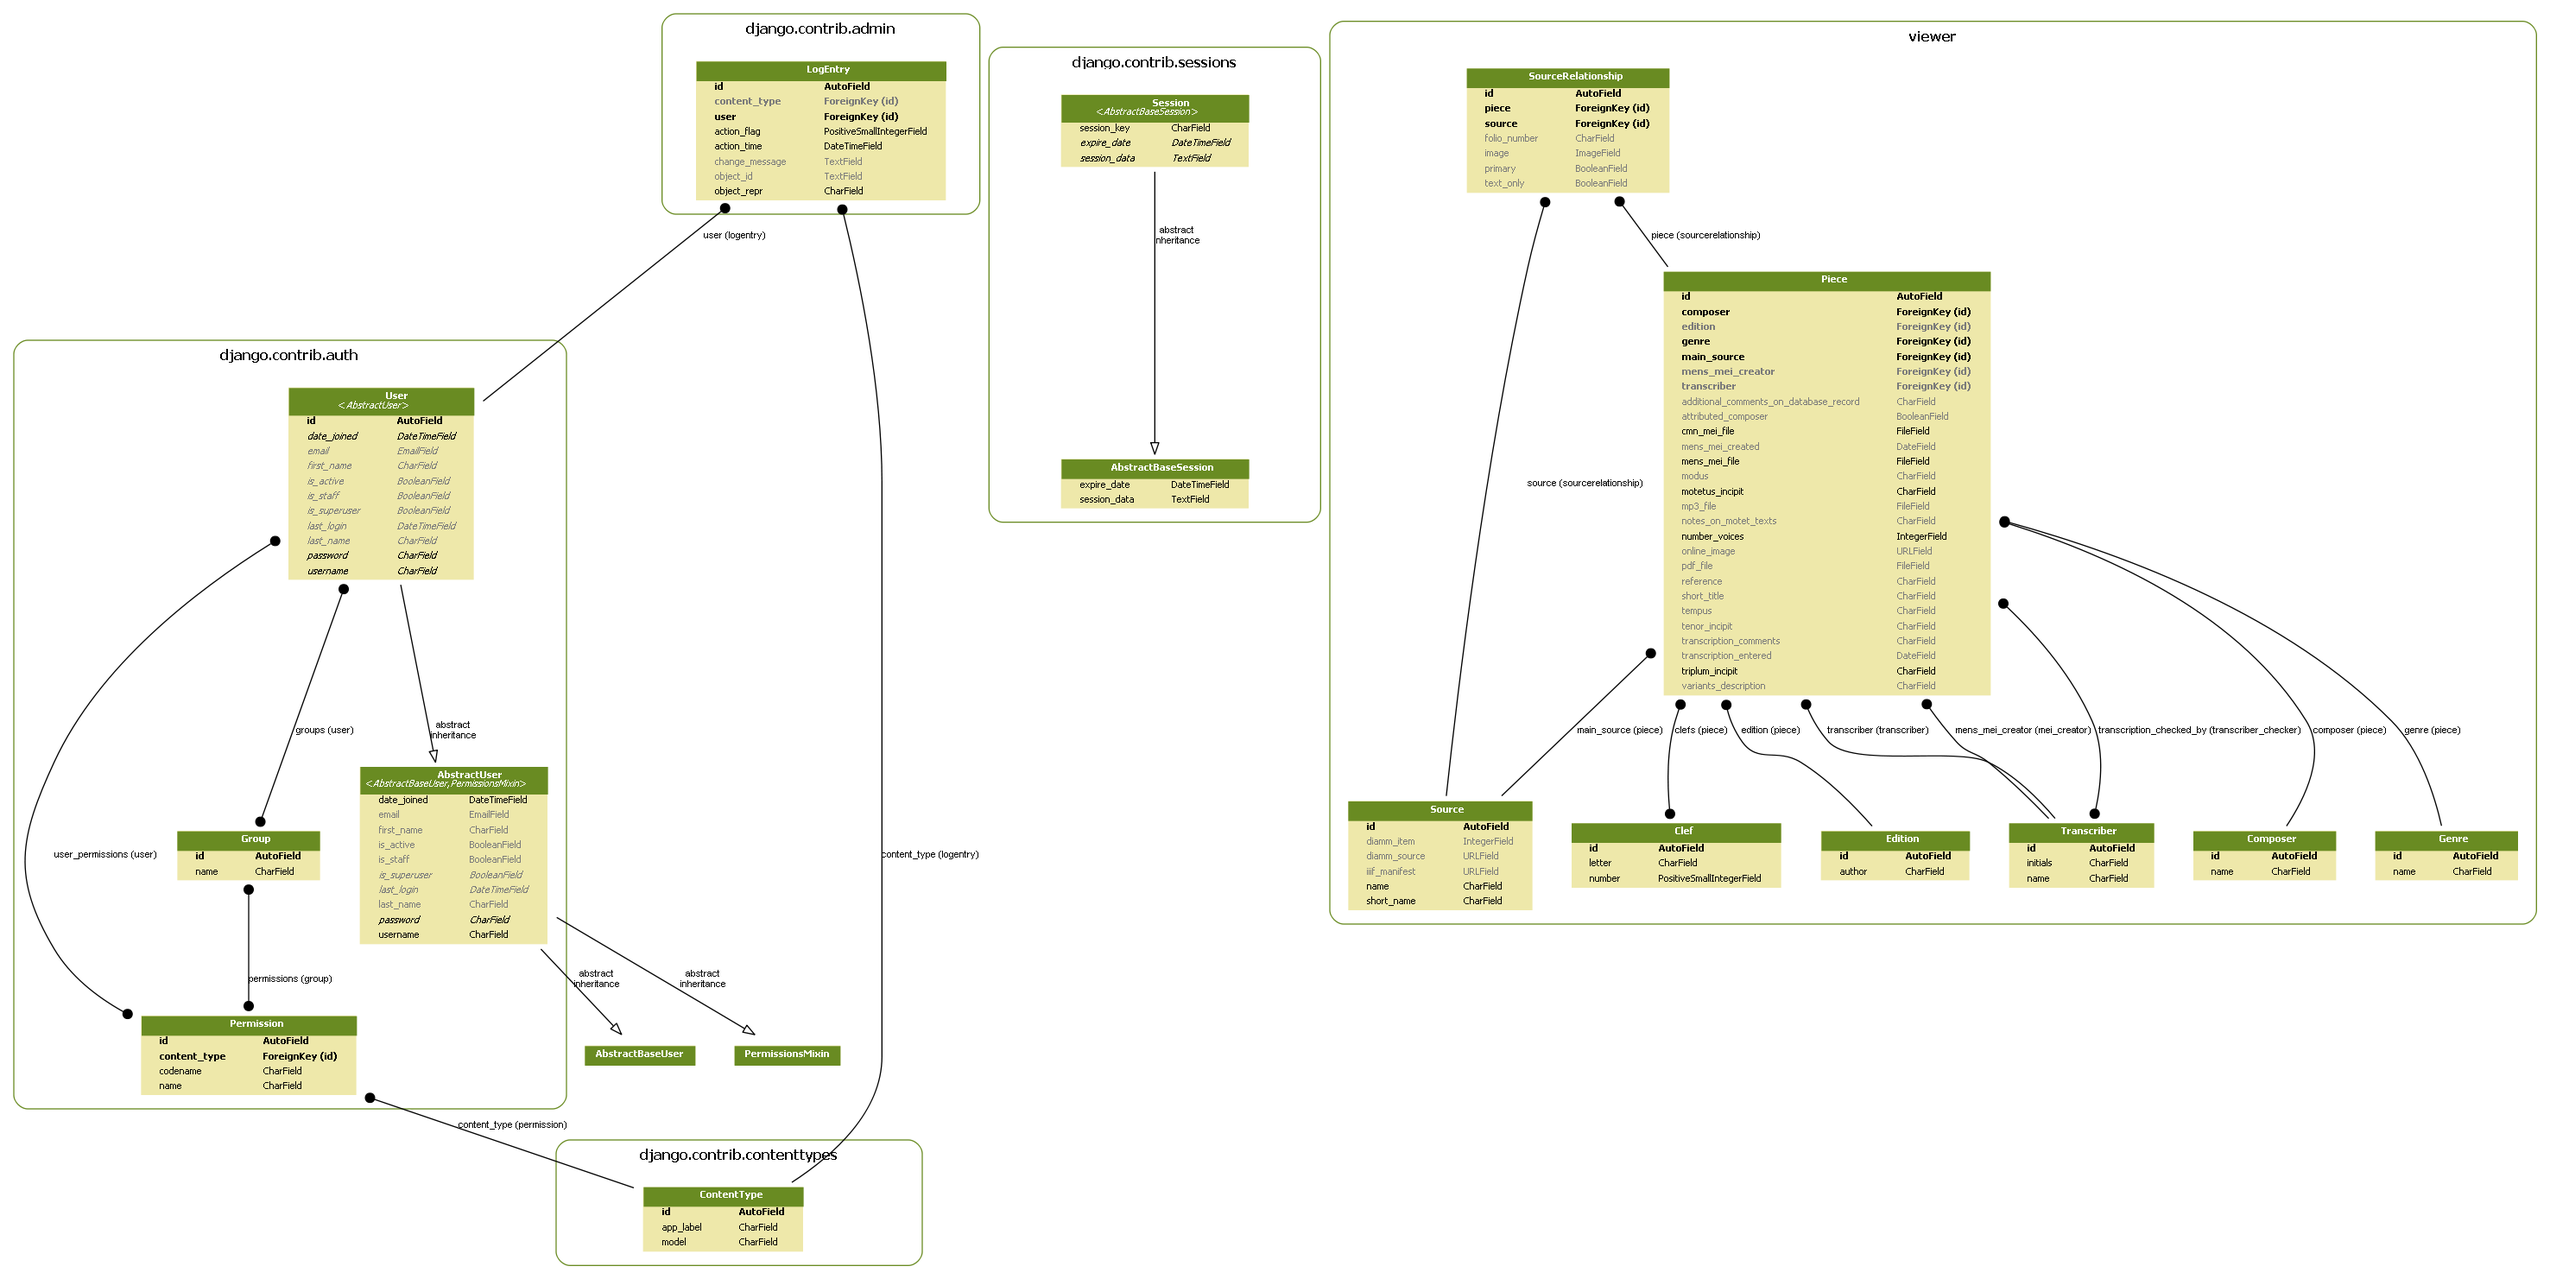
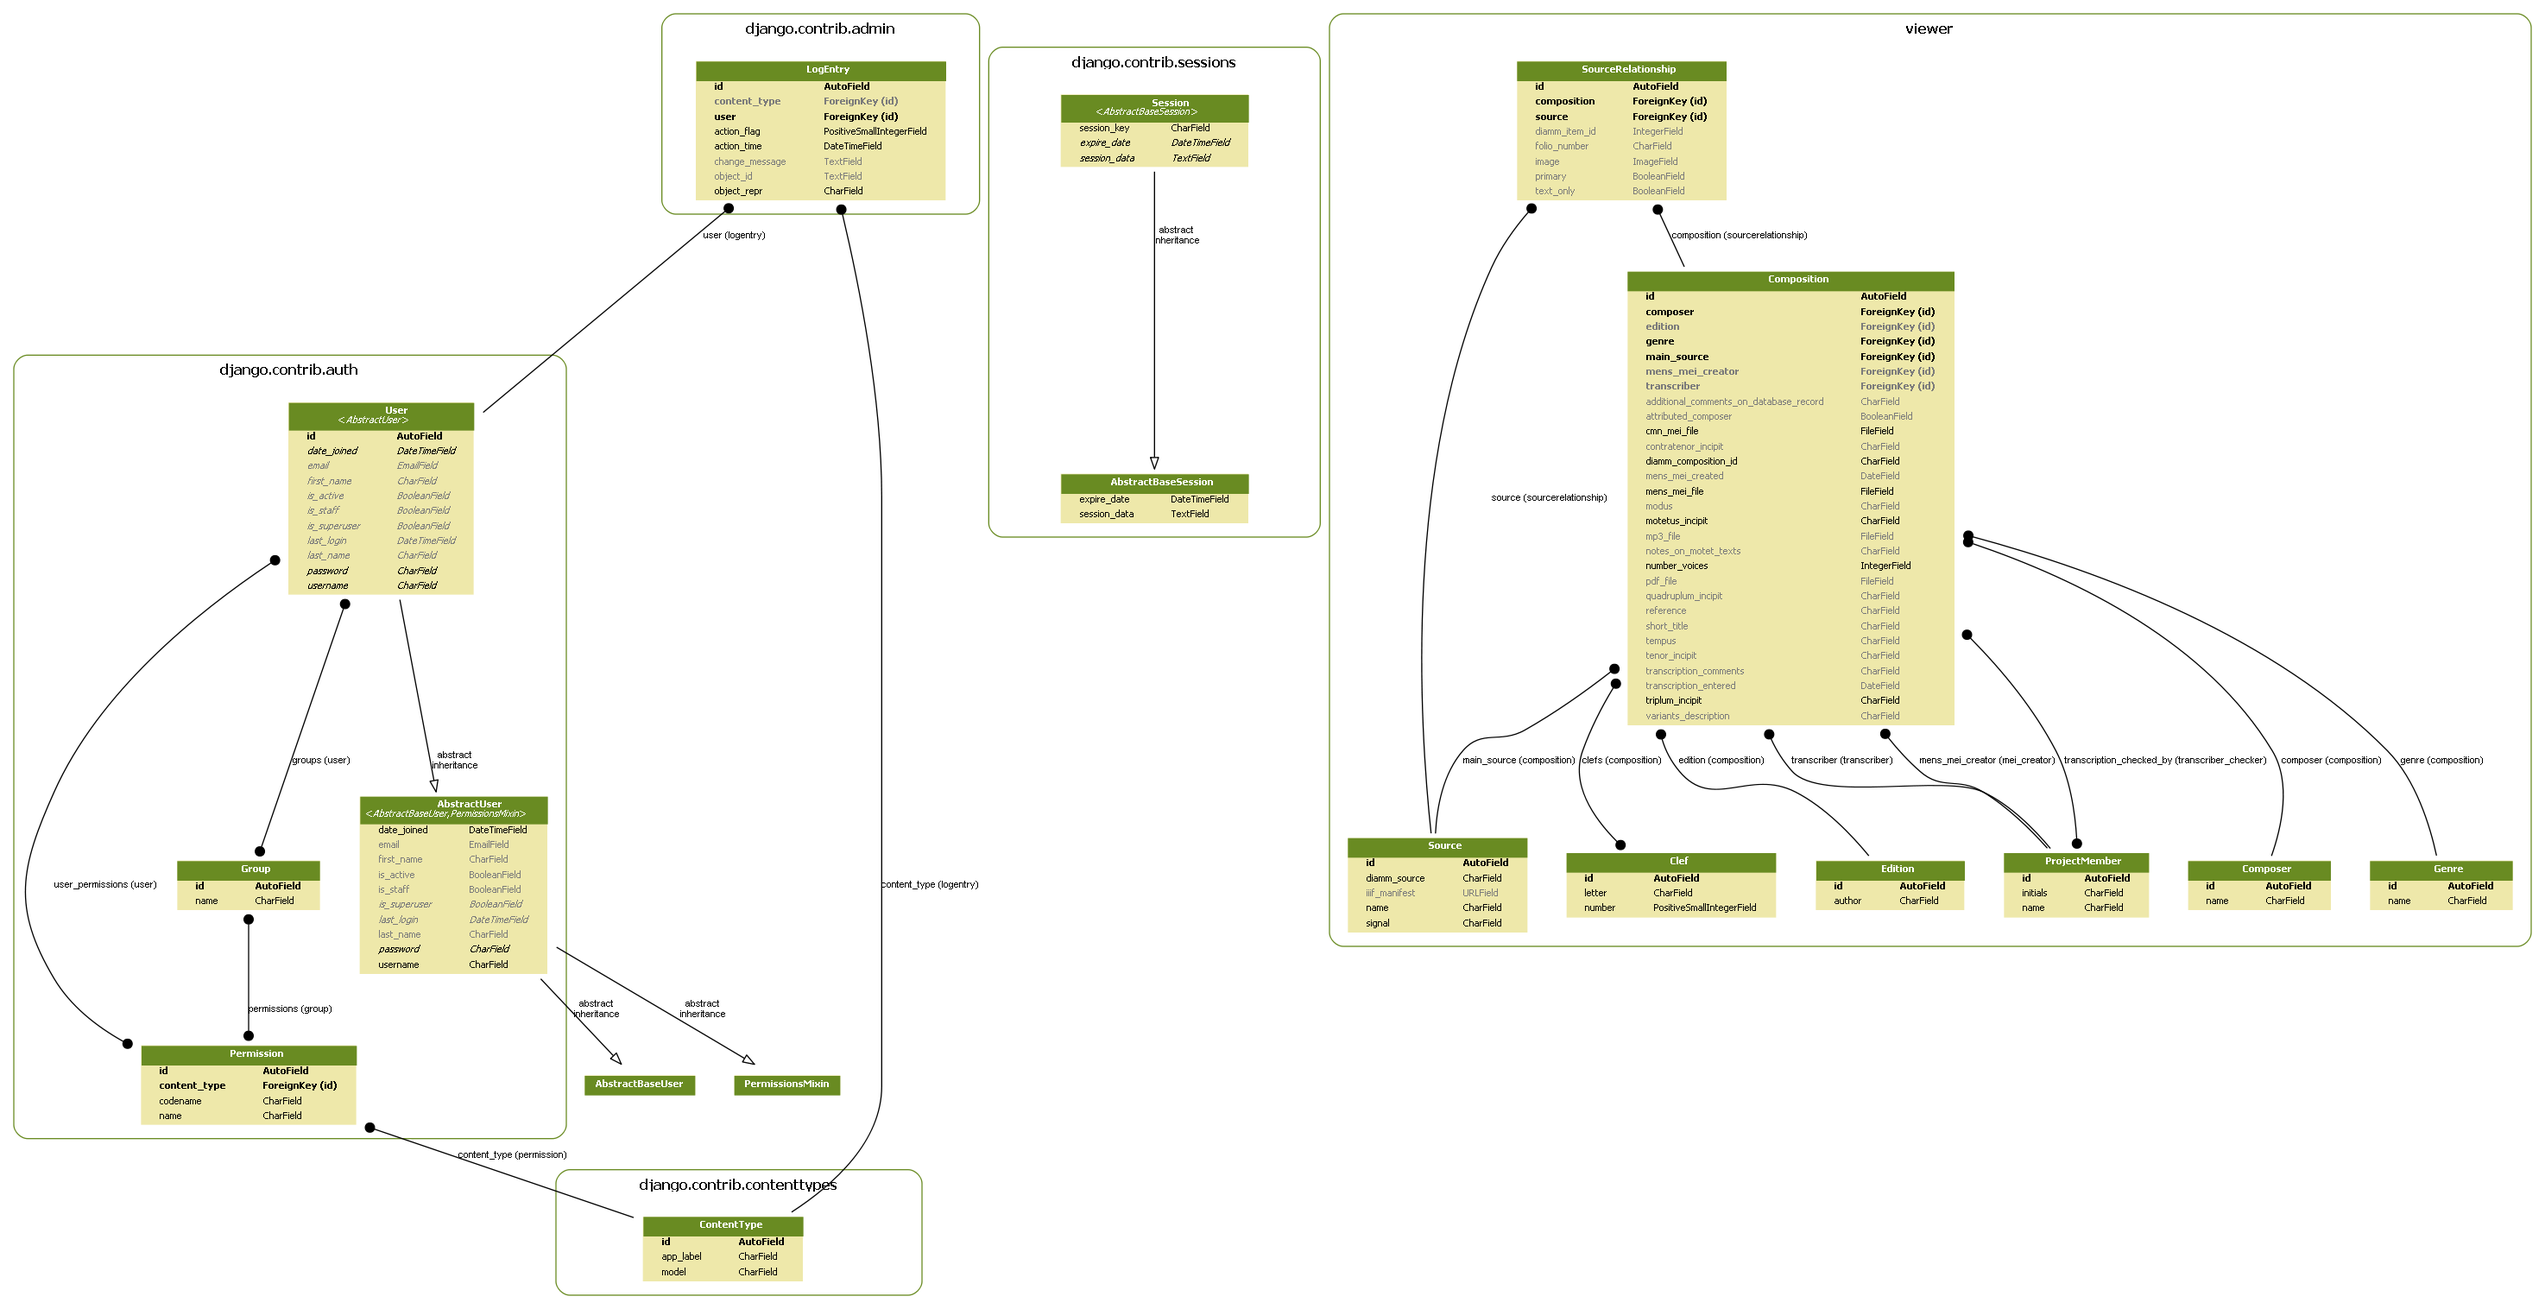
Lots of changes

diff --git a/templates/viewer/composition_detail.html b/templates/viewer/composition_detail.html
@@ -3,13 +3,65 @@
 <head>
     <meta charset="UTF-8">
     <title>Piece Detail</title>
+    <!-- Latest compiled and minified CSS -->
+<link rel="stylesheet" href="https://maxcdn.bootstrapcdn.com/bootstrap/3.3.7/css/bootstrap.min.css" integrity="sha384-BVYiiSIFeK1dGmJRAkycuHAHRg32OmUcww7on3RYdg4Va+PmSTsz/K68vbdEjh4u" crossorigin="anonymous">
+
+<!-- Optional theme -->
+<link rel="stylesheet" href="https://maxcdn.bootstrapcdn.com/bootstrap/3.3.7/css/bootstrap-theme.min.css" integrity="sha384-rHyoN1iRsVXV4nD0JutlnGaslCJuC7uwjduW9SVrLvRYooPp2bWYgmgJQIXwl/Sp" crossorigin="anonymous">
+
+<!-- Latest compiled and minified JavaScript -->
+<script src="https://maxcdn.bootstrapcdn.com/bootstrap/3.3.7/js/bootstrap.min.js" integrity="sha384-Tc5IQib027qvyjSMfHjOMaLkfuWVxZxUPnCJA7l2mCWNIpG9mGCD8wGNIcPD7Txa" crossorigin="anonymous"></script>
+
 </head>
+
 <body>
-{{ object.triplum_incipit }} - {{ object.motetus_incipit }}{% if object.tenor_incipit %} - {{ object.tenor_incipit }}{% endif %}: {{ object.composer.name }}</body>
+<h1>{{ object.fullname }}</h1>
+<br>
+<b>{{ object.composerfull }}</b>
+<br>
+Main Source:
+<br>
+{{ object.main_source }}
+{% if folios %}
+- folios: {% for folio in folios %}{{ folio.folio_number }}, {% endfor %}
+{% endif %}
+<br>
+{% if object.main_source.diamm_source %}
+    <a href="{{ object.main_source.diamm_source }}">More info about source</a>
+    <br>
+{% endif %}
+
+{% if conc_sources %}
+Concordant Sources:
+<ul>
+{% for source in conc_sources %}
+    <li>{{ source.source }}</li>
+{% endfor %}
+</ul>
+{% endif %}
+<br>
+Edition: {{ object.edition }}
 <br>
 {% if object.main_source.iiif_manifest %}
-    <a href="{% url 'composition-iiif' object.pk %}">IIIF Link</a> - folios: {% for folio in folios %}{{ folio.folio_number }} {% endfor %}
+    <a href="{% url 'composition-iiif' object.pk %}">IIIF Link</a>
+    <br>
 {% endif %}
+
+Downloads:
+<ul>
+    {% if object.mens_mei_file %}
+        <a href="{{ object.mens_mei_file.url }}"><li>Mensural MEI</li></a>
+    {% endif %}
+
+    {% if object.cmn_mei_file %}
+        <a href="{{ object.cmn_mei_file.url }}"><li>Common MEI</li></a>
+    {% endif %}
+
+</ul>
+
+
+
 {{ svg|safe }}
 
+</body>
 </html>

diff --git a/templates/main.html b/templates/main.html
@@ -1,0 +1,10 @@
+<!DOCTYPE html>
+<html lang="en">
+<head>
+    <meta charset="UTF-8">
+    <title>Title</title>
+</head>
+<body>
+
+</body>
+</html>

diff --git a/viewer/migrations/0001_initial.py b/viewer/migrations/0001_initial.py
@@ -1,5 +1,5 @@
 # -*- coding: utf-8 -*-
-# Generated by Django 1.11 on 2017-05-17 14:44
+# Generated by Django 1.11 on 2017-05-24 16:34
 from __future__ import unicode_literals
 
 from django.db import migrations, models
@@ -21,6 +21,9 @@ class Migration(migrations.Migration):
                 ('letter', models.CharField(max_length=1)),
                 ('number', models.PositiveSmallIntegerField()),
             ],
+            options={
+                'ordering': ('letter', 'number'),
+            },
         ),
         migrations.CreateModel(
             name='Composer',
@@ -33,6 +36,7 @@ class Migration(migrations.Migration):
             name='Composition',
             fields=[
                 ('id', models.AutoField(auto_created=True, primary_key=True, serialize=False, verbose_name='ID')),
+                ('is_live', models.BooleanField(default=True)),
                 ('triplum_incipit', models.CharField(max_length=200)),
                 ('motetus_incipit', models.CharField(max_length=200)),
                 ('tenor_incipit', models.CharField(blank=True, max_length=200)),
@@ -58,6 +62,9 @@ class Migration(migrations.Migration):
                 ('clefs', models.ManyToManyField(to='viewer.Clef')),
                 ('composer', models.ForeignKey(on_delete=django.db.models.deletion.CASCADE, to='viewer.Composer')),
             ],
+            options={
+                'ordering': ('triplum_incipit', 'motetus_incipit'),
+            },
         ),
         migrations.CreateModel(
             name='Edition',
@@ -65,6 +72,21 @@ class Migration(migrations.Migration):
                 ('id', models.AutoField(auto_created=True, primary_key=True, serialize=False, verbose_name='ID')),
                 ('author', models.CharField(max_length=20)),
             ],
+            options={
+                'ordering': ('author',),
+            },
+        ),
+        migrations.CreateModel(
+            name='FolioPage',
+            fields=[
+                ('id', models.AutoField(auto_created=True, primary_key=True, serialize=False, verbose_name='ID')),
+                ('folio_number', models.CharField(max_length=20)),
+                ('image', models.ImageField(blank=True, null=True, upload_to='images/')),
+                ('order_number', models.PositiveSmallIntegerField()),
+            ],
+            options={
+                'ordering': ('source_relationship', '-folio_number'),
+            },
         ),
         migrations.CreateModel(
             name='Genre',
@@ -80,6 +102,9 @@ class Migration(migrations.Migration):
                 ('initials', models.CharField(max_length=5)),
                 ('name', models.CharField(max_length=20)),
             ],
+            options={
+                'ordering': ('initials',),
+            },
         ),
         migrations.CreateModel(
             name='Source',
@@ -88,21 +113,30 @@ class Migration(migrations.Migration):
                 ('name', models.CharField(max_length=100)),
                 ('signal', models.CharField(max_length=10)),
                 ('iiif_manifest', models.URLField(blank=True, null=True)),
-                ('diamm_source', models.CharField(max_length=100)),
+                ('diamm_source', models.URLField(blank=True, null=True)),
             ],
+            options={
+                'ordering': ('name',),
+            },
         ),
         migrations.CreateModel(
             name='SourceRelationship',
             fields=[
                 ('id', models.AutoField(auto_created=True, primary_key=True, serialize=False, verbose_name='ID')),
-                ('folio_number', models.CharField(blank=True, max_length=20, null=True)),
                 ('primary', models.BooleanField(default=False)),
                 ('text_only', models.BooleanField(default=False)),
-                ('image', models.ImageField(blank=True, null=True, upload_to='images/')),
                 ('diamm_item_id', models.IntegerField(blank=True, null=True)),
                 ('composition', models.ForeignKey(on_delete=django.db.models.deletion.CASCADE, to='viewer.Composition')),
                 ('source', models.ForeignKey(on_delete=django.db.models.deletion.CASCADE, to='viewer.Source')),
             ],
+            options={
+                'ordering': ('source', 'composition'),
+            },
+        ),
+        migrations.AddField(
+            model_name='foliopage',
+            name='source_relationship',
+            field=models.ForeignKey(on_delete=django.db.models.deletion.CASCADE, to='viewer.SourceRelationship'),
         ),
         migrations.AddField(
             model_name='composition',

diff --git a/viewer/models.py b/viewer/models.py
@@ -21,9 +21,11 @@ class Source(models.Model):
     signal = models.CharField(max_length=10)
     iiif_manifest = models.URLField(blank=True, null=True)
     diamm_source = models.URLField(blank=True, null=True)
-    diamm_source = models.CharField(max_length=100)
     def __str__(self):
         return self.name
+
+    class Meta:
+        ordering = ('name',)
 
 
 class Clef(models.Model):
@@ -32,17 +34,36 @@ class Clef(models.Model):
     def __str__(self):
         return "{}{}".format(self.letter, self.number)
 
+    class Meta:
+        ordering = ('letter', 'number')
+
 
 class SourceRelationship(models.Model):
     source = models.ForeignKey(Source)
-    folio_number = models.CharField(max_length=20, null=True, blank=True)
     composition = models.ForeignKey("Composition")
     primary = models.BooleanField(default=False)
     text_only = models.BooleanField(default=False)
-    image = models.ImageField(upload_to="images/", null=True, blank=True)
     diamm_item_id = models.IntegerField(blank=True, null=True)
     def __str__(self):
-        return "{} - Folio #{}".format(self.source.name, self.folio_number)
+        return "{} - {}".format(self.source.name, self.composition)
+
+    class Meta:
+        ordering = ('source','composition')
+
+
+class FolioPage(models.Model):
+    folio_number = models.CharField(max_length=20)
+    source_relationship = models.ForeignKey(SourceRelationship)
+    image = models.ImageField(upload_to="images/", null=True, blank=True)
+    order_number = models.PositiveSmallIntegerField()
+
+    def __str__(self):
+        return f"{self.source_relationship} - {self.folio_number}"
+
+    class Meta:
+        ordering = ('source_relationship','-folio_number')
+
+
 
 
 class Edition(models.Model):
@@ -50,13 +71,20 @@ class Edition(models.Model):
     def __str__(self):
         return self.author
 
+    class Meta:
+        ordering = ('author',)
+
 class ProjectMember(models.Model):
     initials = models.CharField(max_length=5)
     name = models.CharField(max_length=20)
     def __str__(self):
         return "{}".format(self.initials)
 
+    class Meta:
+        ordering = ('initials',)
+
 class Composition(models.Model):
+    is_live = models.BooleanField(default=True)
     triplum_incipit = models.CharField(max_length=200)
     motetus_incipit = models.CharField(max_length=200)
     tenor_incipit = models.CharField(max_length=200, blank=True)
@@ -87,6 +115,28 @@ class Composition(models.Model):
     notes_on_motet_texts = models.CharField(max_length=500, blank=True)
     variants_description = models.CharField(max_length=2000, blank=True)
     additional_comments_on_database_record = models.CharField(max_length=500, blank=True)
+
+    def fullname(self):
+        s = ""
+        if self.triplum_incipit:
+            s += self.triplum_incipit
+        if self.motetus_incipit:
+            s += "/" + self.motetus_incipit
+        if self.tenor_incipit:
+            s += "/" + self.tenor_incipit
+        if self.quadruplum_incipit:
+            s += "/" + self.quadruplum_incipit
+
+        return s
+
+    def composerfull(self):
+        if self.attributed_composer:
+            return self.composer.name + " (attrib)"
+        else:
+            return self.composer.name
+
+    class Meta:
+        ordering = ('triplum_incipit','motetus_incipit')
 
     def __str__(self):
         return f"{self.triplum_incipit}/{self.motetus_incipit}"

diff --git a/viewer/admin.py b/viewer/admin.py
@@ -1,13 +1,26 @@
 from django.contrib import admin
-from .models import Composition, Composer, Genre, Source, Clef, SourceRelationship, Edition, ProjectMember
+from .models import Composition, Composer, Genre, Source, Clef, SourceRelationship, Edition, ProjectMember, FolioPage
 # Register your models here.
 
 
+class SourceRelationshipInline(admin.TabularInline):
+    model = SourceRelationship
+
+
+class FolioPageInline(admin.TabularInline):
+    model = FolioPage
+
 @admin.register(Composition)
-class PieceAdmin(admin.ModelAdmin):
+class CompositionAdmin(admin.ModelAdmin):
     list_display = ['triplum_incipit', 'motetus_incipit', 'tenor_incipit', 'composer', 'main_source', 'edition', 'reference']
+    inlines = [SourceRelationshipInline]
 
 
-@admin.register(Composer, Genre, Source, Clef, SourceRelationship, Edition, ProjectMember)
+@admin.register(SourceRelationship)
+class SourceRelationshipAdmin(admin.ModelAdmin):
+    inlines = [FolioPageInline]
+
+
+@admin.register(Composer, Genre, Source, Clef, Edition, ProjectMember, FolioPage)
 class GenericAdmin(admin.ModelAdmin):
     pass

diff --git a/viewer/views.py b/viewer/views.py
@@ -2,7 +2,7 @@ from django.shortcuts import render
 from django.http import HttpResponse
 from django.views.generic.list import ListView
 from django.views.generic.detail import DetailView
-from viewer.models import Composition, SourceRelationship
+from viewer.models import Composition, SourceRelationship, FolioPage
 from viewer.logic import mei_to_svg
 
 
@@ -30,6 +30,8 @@ class CompositionDetailView(DetailView):
         if self.object.mens_mei_file:
             svg = mei_to_svg(self.object.mens_mei_file.path)
         context['svg'] = svg
-        folios = SourceRelationship.objects.filter(composition=self.object, source=self.object.main_source)
+        folios = FolioPage.objects.filter(source_relationship__composition=self.object, source_relationship__primary=True)
         context['folios'] = folios
+        conc_sources = SourceRelationship.objects.filter(composition=self.object, primary=False)
+        context['conc_sources'] = conc_sources
         return context

diff --git a/importer.py b/importer.py
@@ -6,6 +6,8 @@ import progressbar
 
 import os
 os.system("del db.sqlite3")
+os.system("del viewer\\migrations\\0*")
+
 os.system("python manage.py makemigrations")
 os.system("python manage.py migrate")
 os.environ.setdefault("DJANGO_SETTINGS_MODULE", "measuring_polyphony.settings")
@@ -158,9 +160,11 @@ for line in bar(ss):
     np.save()
 
     folio_nums = line["Folio_numbers"].split(",")
-    for n in folio_nums:
-        sr = SourceRelationship(source=main_source, folio_number=n.strip(), composition = np, primary=True)
-        sr.save()
+    sr = SourceRelationship(source=main_source, composition=np, primary=True)
+    sr.save()
+    for i,n in enumerate(folio_nums,1):
+        fr = FolioPage(folio_number=n, order_number=i, source_relationship=sr)
+        fr.save()
 
     conc_sources = line["Concordant_Sources"].split(",")
     for conc in conc_sources:

diff --git a/viewer/urls.py b/viewer/urls.py
@@ -1,4 +1,8 @@
 from django.conf.urls import url
+from django.conf.urls.static import static
+from django.conf import settings
+
+
 
 from . import views
 
@@ -7,4 +11,4 @@ urlpatterns = [
     url(r'^compositions$', views.CompositionListView.as_view(), name='composition-list'),
     url(r'^compositions/(?P<pk>\d+)/$', views.CompositionDetailView.as_view(), name='composition-detail'),
     url(r'^compositions/(?P<pk>\d+)/iiif$', views.iiif, name='composition-iiif'),
-]
+]+ static("media", document_root=settings.MEDIA_ROOT)

diff --git a/viewer/logic.py b/viewer/logic.py
@@ -5,6 +5,8 @@
 # https://github.com/rism-ch/verovio/issues/490
 
 import verovio
+from django.conf import settings
+
 
 
 def load_mei_tk(mensural=True):
